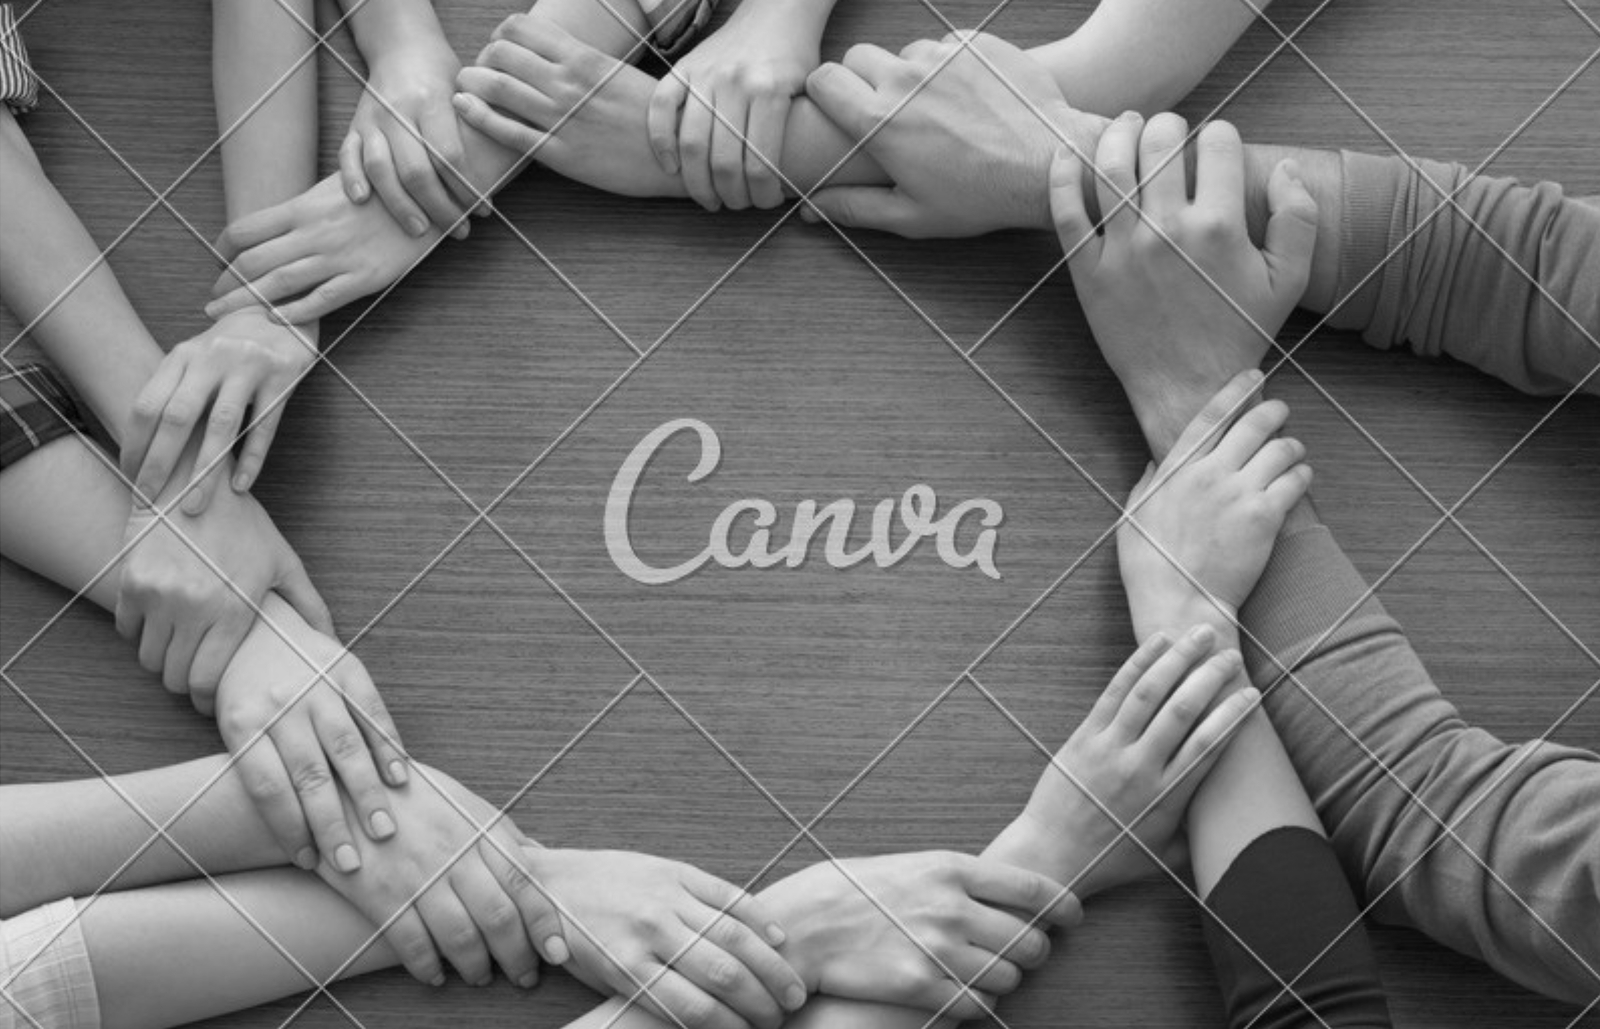
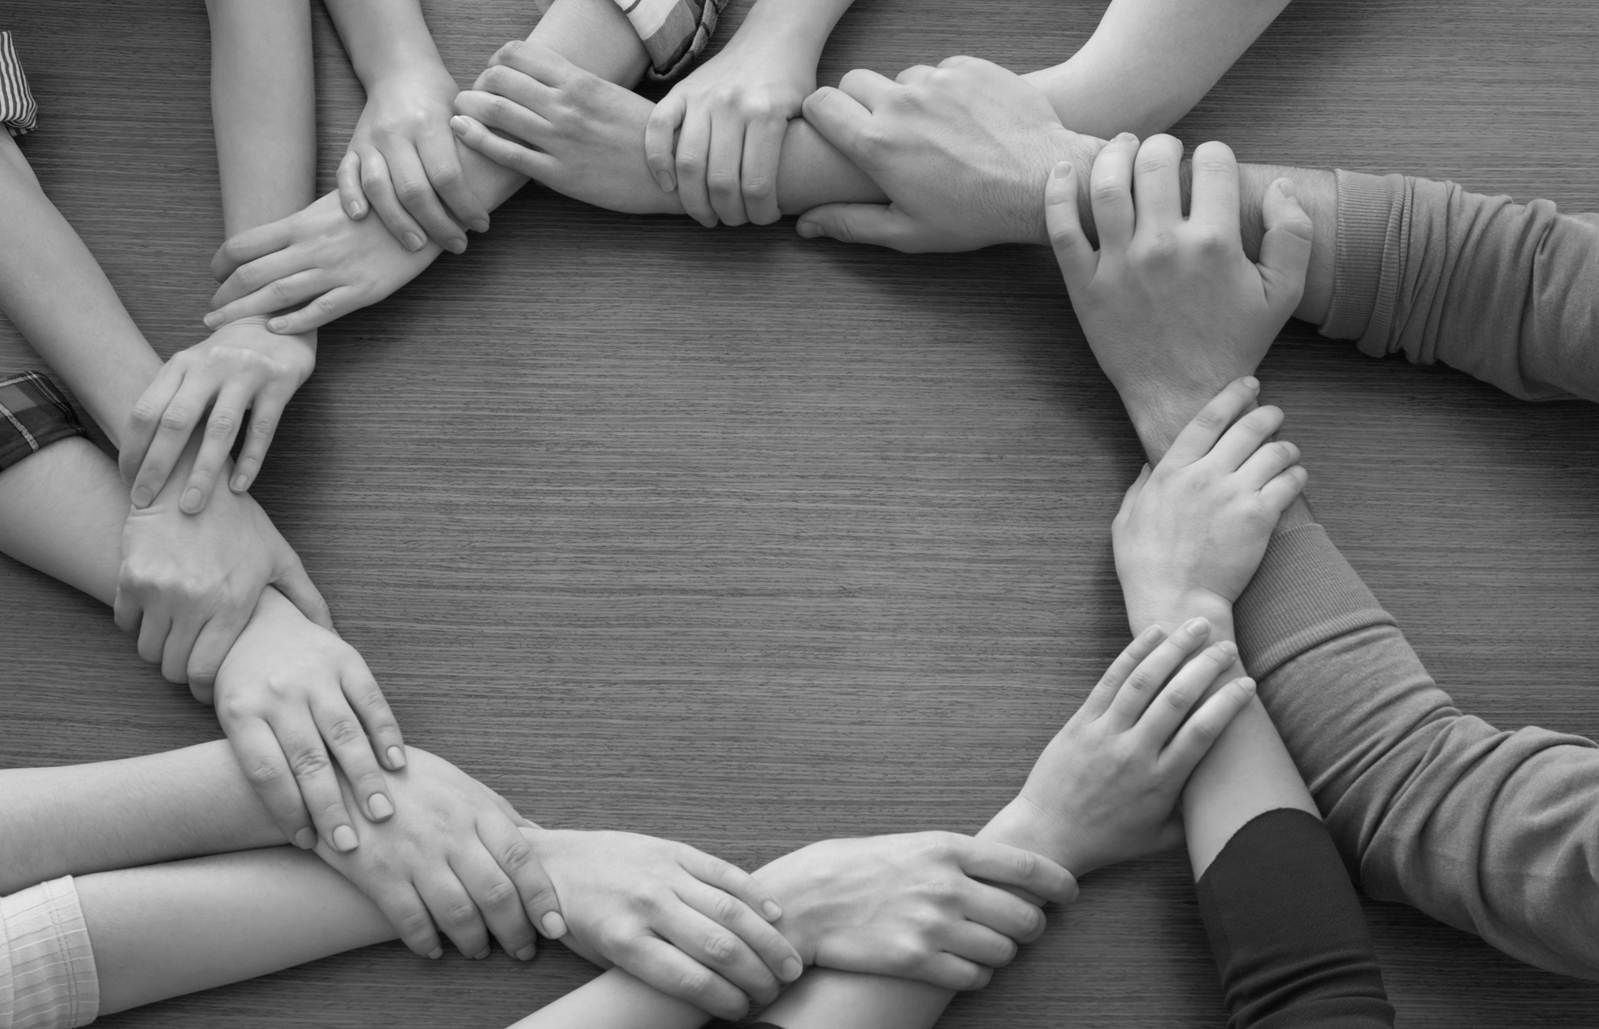
remoção de imagem do bg informativos-home

diff --git a/index.html b/index.html
@@ -82,7 +82,7 @@
         </div>
     </section>
 
-    <section id="informativos" class="home-informativos-bg mb-16 md:mb-24 bg-cover bg-center" style="background-image: linear-gradient(rgba(47,2,79,0.8), rgba(47,2,79,0.8)), url(./imgs/foto-bg-informativos-novo.jpg);">
+    <section id="informativos" class="home-informativos-bg mb-16 md:mb-24 bg-cover bg-center" style="background-image: linear-gradient(rgba(47,2,79,0.8), rgba(47,2,79,0.8)), url(./imgs/foto-bg-informativos.jpg);">
       <div class="home-informativos my-0 mx-auto max-w-xs md:max-w-2xl lg:max-w-4xl xl:max-w-6xl" data-anime="scroll">
         <h2 class="uppercase text-3xl md:text-5xl tracking-wider leading-snug text-center pt-16 md:pt-24 mb-8 md:mb-14 text-rose-200" style="font-family: 'Anton', sans-serif;">Informativos</h2>
         <div class="home-informativos-item lg:flex gap-8 pb-24">
